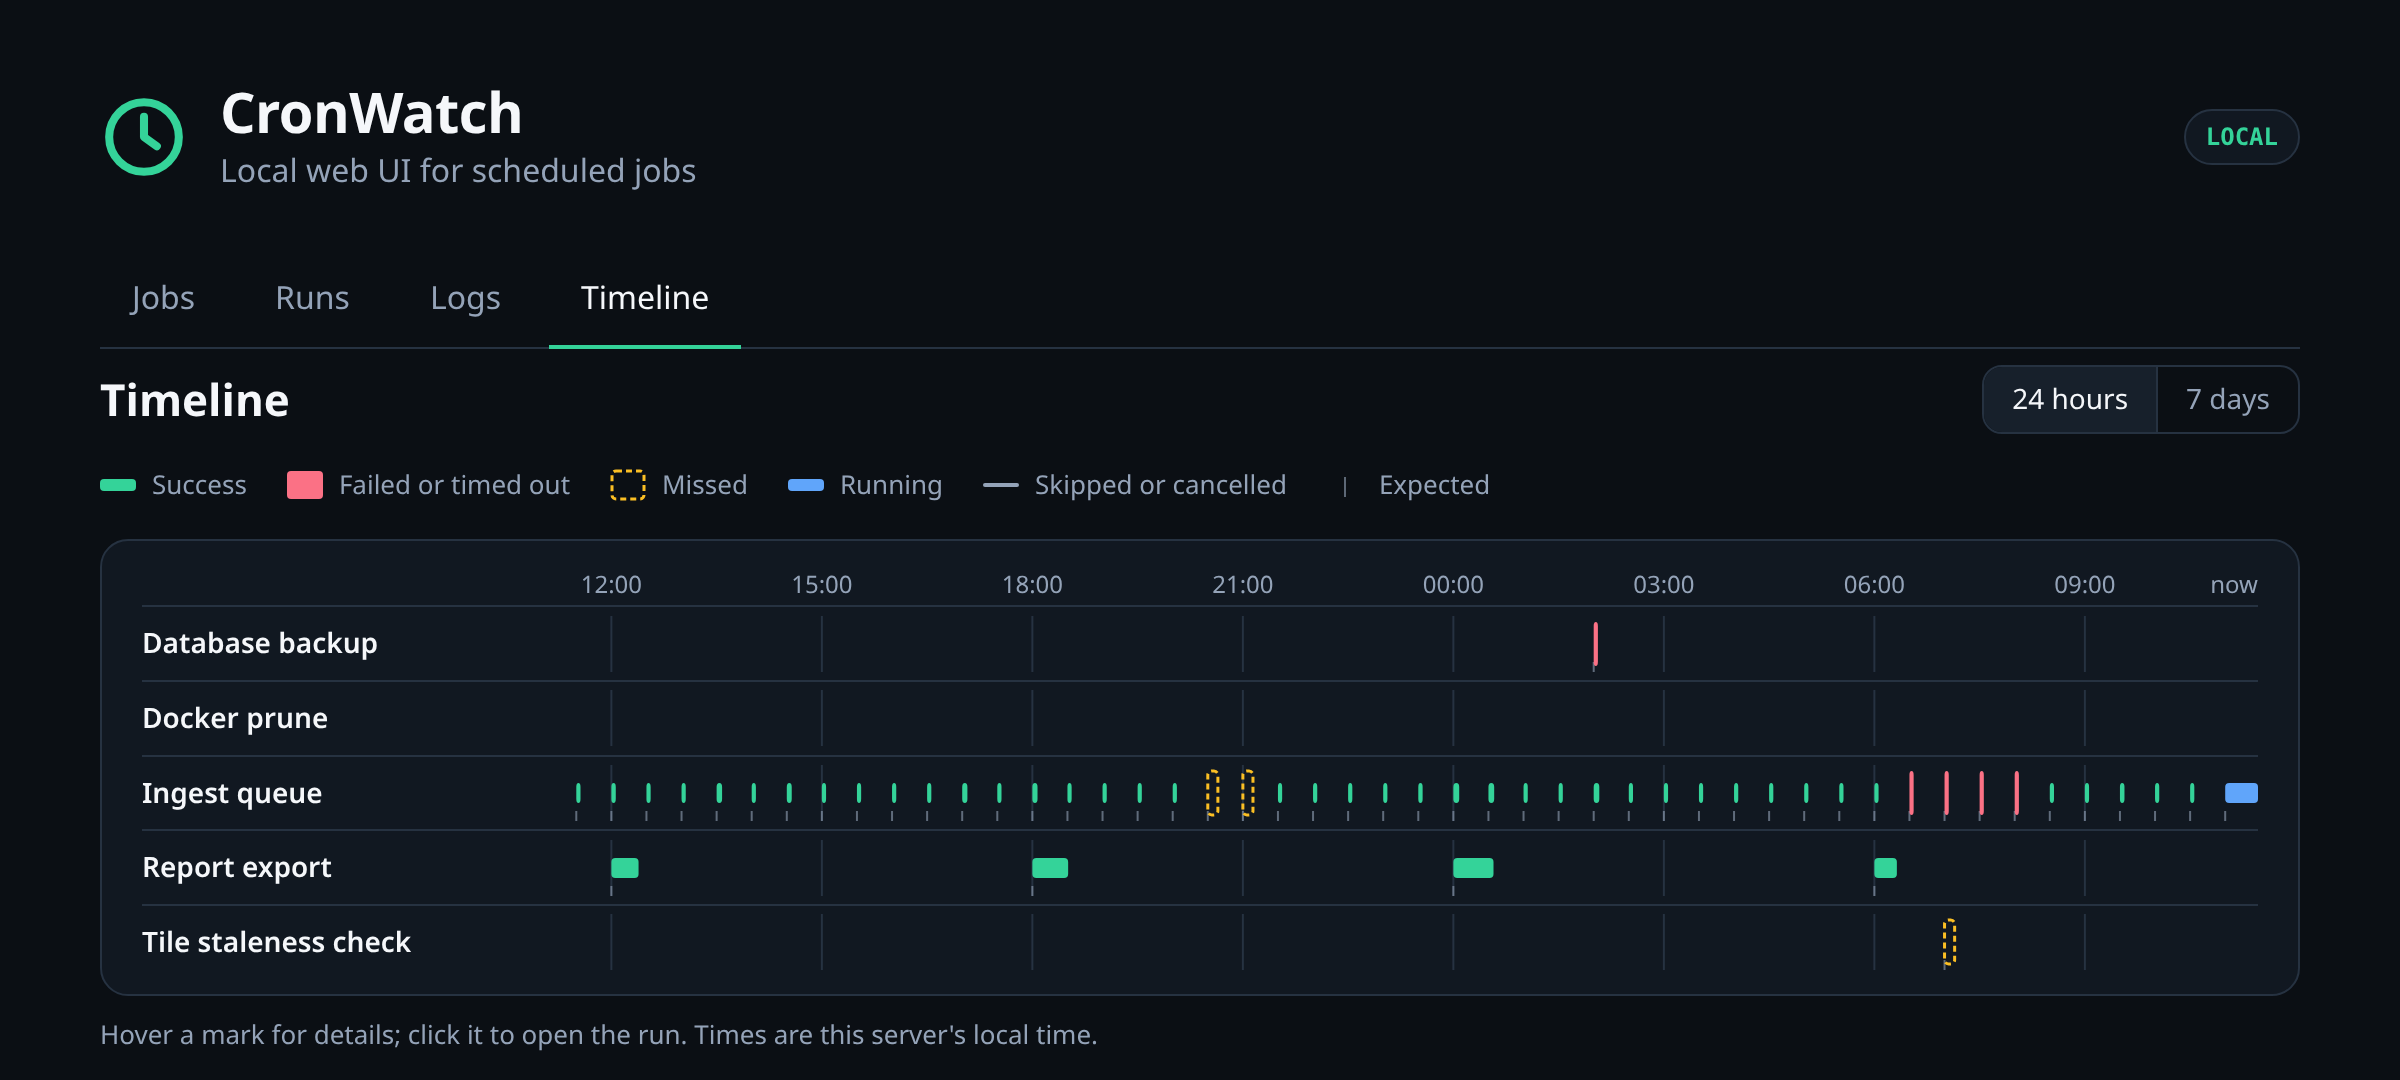
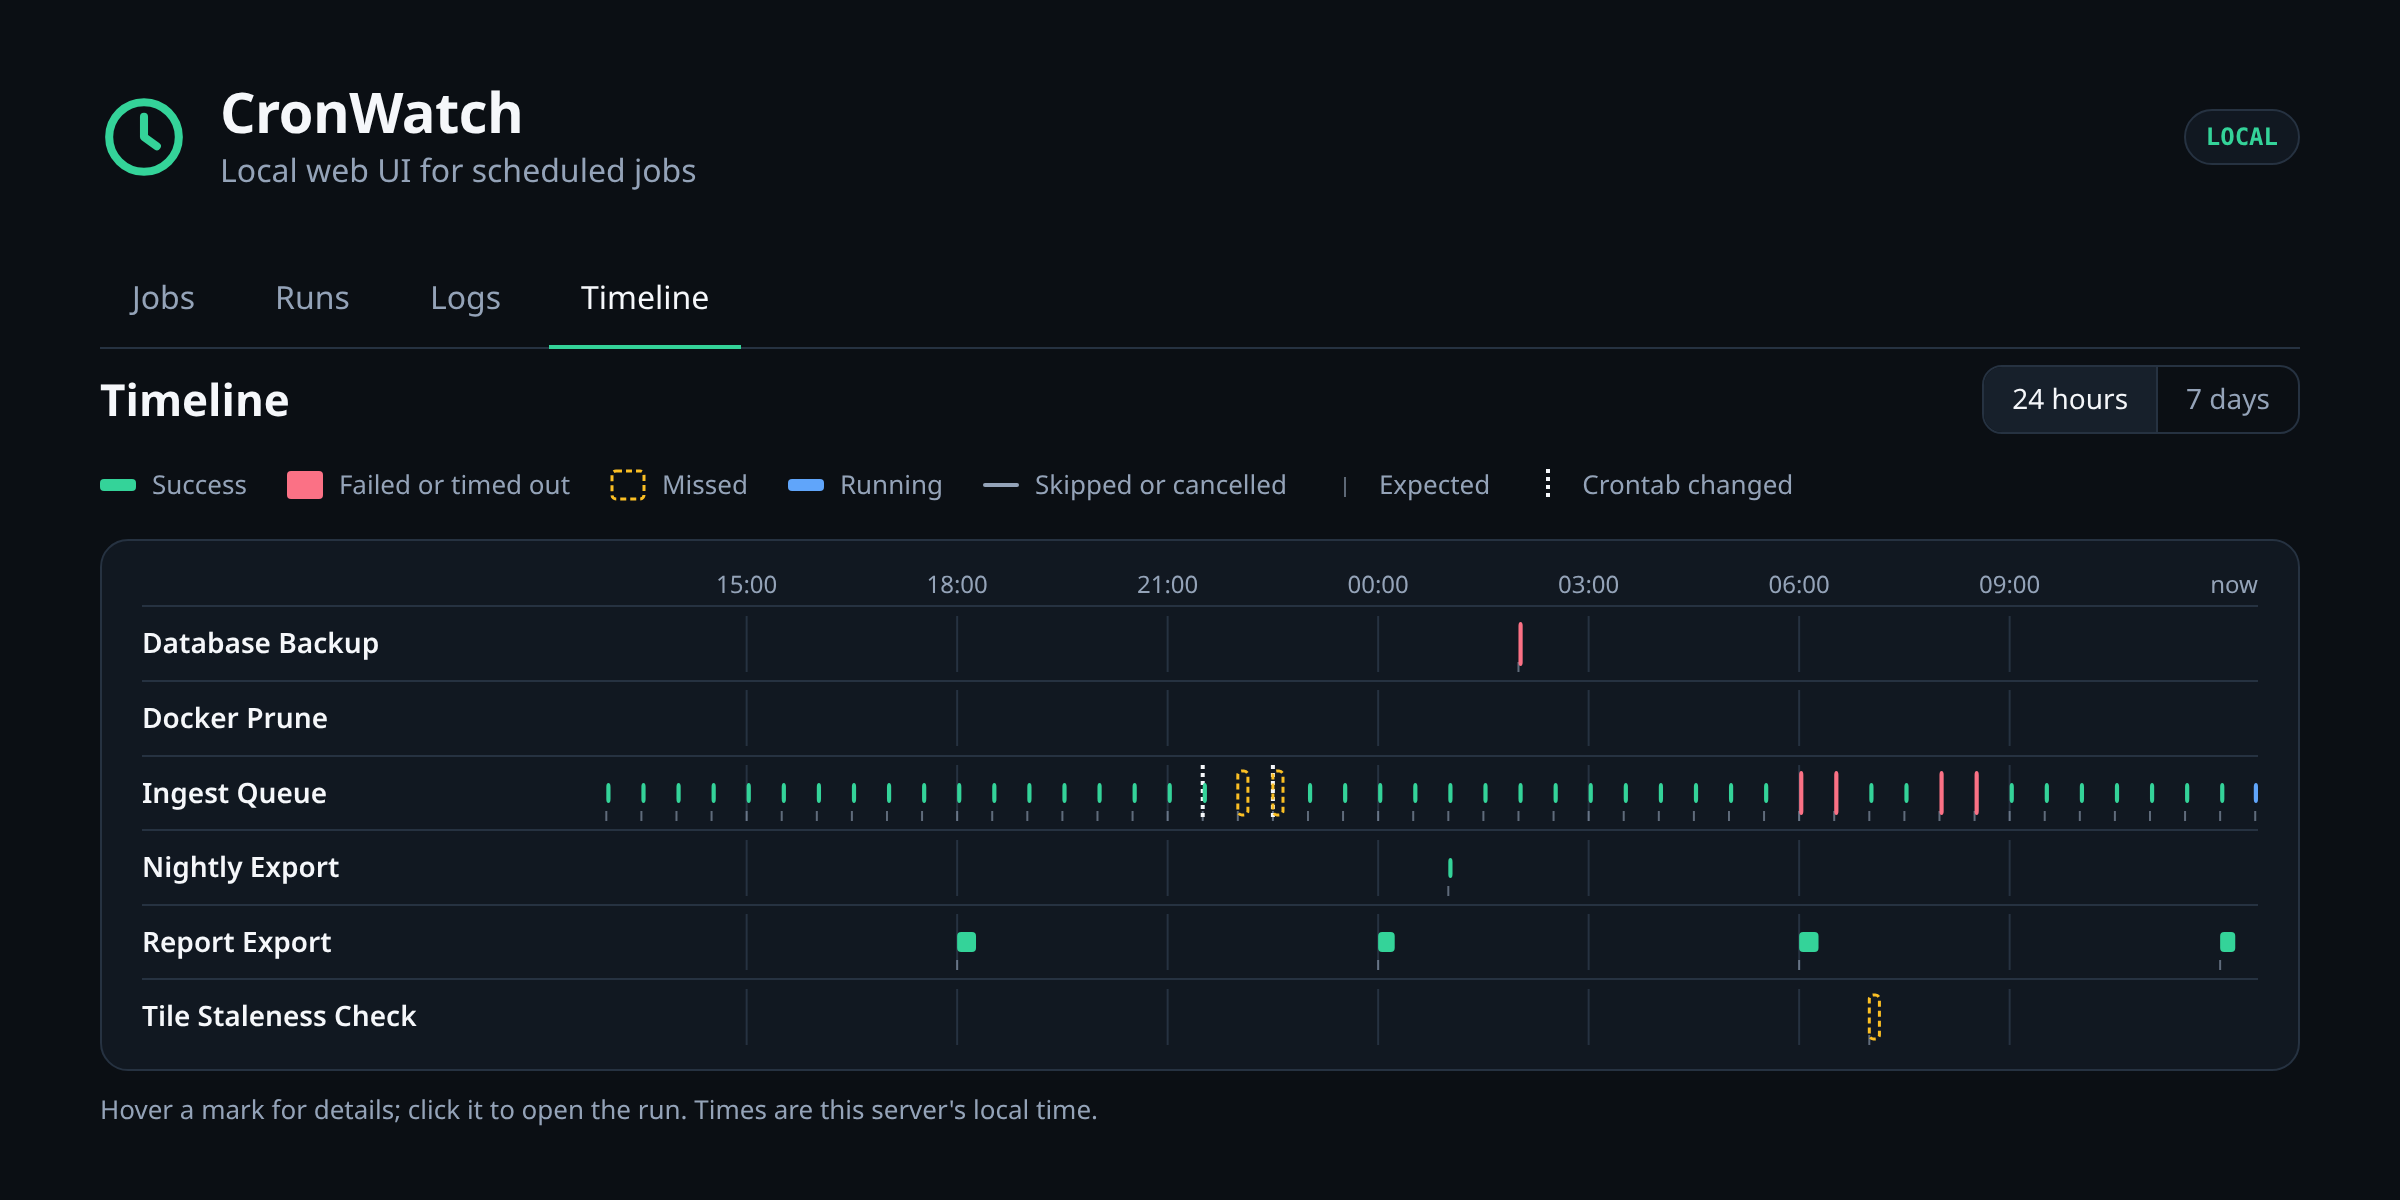
Refresh README screenshots and add a script to regenerate them
- scripts/demo fills a data directory with made-up history through the
  storage package, so signatures, missed runs and trends come from the
  real code.
- scripts/screenshots.sh builds CronWatch, generates the demo data, runs
  serve and captures the pages with headless Chromium into docs/images.
- New screenshots of the jobs list, a failed run with the environment
  notice and comparison view, a job's durations and failure types, and
  the timeline with crontab markers; run-environment-change.png is
  replaced by run-failed.png.

diff --git a/scripts/demo/main.go b/scripts/demo/main.go
@@ -1,0 +1,241 @@
+// Command demo fills a CronWatch data directory with realistic, made-up
+// history for screenshots and demos. It writes through the storage package,
+// so failure signatures, missed runs and the rest come from the real code.
+//
+//	go run ./scripts/demo -data-dir /tmp/cronwatch-demo
+//
+// It prints KEY=VALUE lines naming the runs and jobs worth showing.
+package main
+
+import (
+	"context"
+	"flag"
+	"fmt"
+	"log"
+	"math/rand/v2"
+	"os"
+	"strings"
+	"time"
+
+	"github.com/yeboahd24/cronwatch/internal/model"
+	"github.com/yeboahd24/cronwatch/internal/runenv"
+	"github.com/yeboahd24/cronwatch/internal/storage"
+)
+
+const day = 24 * time.Hour
+
+type demo struct {
+	ctx context.Context
+	s   *storage.Store
+	rng *rand.Rand
+	now time.Time
+}
+
+func main() {
+	dir := flag.String("data-dir", "", "data directory to fill; must not exist yet")
+	flag.Parse()
+	if *dir == "" {
+		log.Fatal("-data-dir is required")
+	}
+	if _, err := os.Stat(*dir); err == nil {
+		log.Fatalf("%s exists; the demo only fills a new directory", *dir)
+	}
+	ctx := context.Background()
+	s, err := storage.Open(ctx, *dir)
+	if err != nil {
+		log.Fatal(err)
+	}
+	defer s.Close()
+	d := &demo{ctx: ctx, s: s, rng: rand.New(rand.NewPCG(4, 2)), now: time.Now().UTC().Truncate(time.Minute)}
+	if err := d.fill(); err != nil {
+		log.Fatal(err)
+	}
+}
+
+// cron and cronWithPgsql are the environments cron gives the jobs before and
+// after someone removes the PATH line from the crontab.
+var (
+	cronWithPgsql = runenv.Env{Dir: "/home/deploy", User: "deploy", UID: "1001",
+		Vars:  map[string]string{"HOME": "/home/deploy", "LOGNAME": "deploy", "PATH": "/usr/local/pgsql/bin:/usr/bin:/bin", "SHELL": "/bin/sh"},
+		Names: []string{"HOME", "LOGNAME", "MAILTO", "PATH", "PGPASSFILE", "SHELL"}}
+	cron = runenv.Env{Dir: "/home/deploy", User: "deploy", UID: "1001",
+		Vars:  map[string]string{"HOME": "/home/deploy", "LOGNAME": "deploy", "PATH": "/usr/bin:/bin", "SHELL": "/bin/sh"},
+		Names: []string{"HOME", "LOGNAME", "MAILTO", "PATH", "SHELL"}}
+)
+
+// run records one finished run.
+type run struct {
+	start          time.Time
+	took           time.Duration
+	status         string
+	code           int
+	stdout, stderr string
+	reason         string
+	env            runenv.Env
+	overlaps       string
+}
+
+func (d *demo) job(slug, name, schedule string, created time.Time) model.Job {
+	grace := 10 * time.Minute
+	j, err := d.s.UpsertJob(d.ctx, storage.JobSpec{Slug: slug, Name: name, Command: `"/home/deploy/bin/` + slug + `.sh"`, Schedule: &schedule, Grace: &grace})
+	if err != nil {
+		log.Fatal(err)
+	}
+	// Jobs are registered as of now; backdate them so their history counts.
+	if _, err := d.s.DB.ExecContext(d.ctx, "UPDATE jobs SET created_at = ?, missed_checked_until = NULL WHERE id = ?",
+		created.Format("2006-01-02T15:04:05.000000000Z"), j.ID); err != nil {
+		log.Fatal(err)
+	}
+	return j
+}
+
+func (d *demo) record(j model.Job, r run) string {
+	created, err := d.s.CreateRun(d.ctx, j.ID, r.start)
+	if err != nil {
+		log.Fatal(err)
+	}
+	if r.env.Dir == "" {
+		r.env = cronWithPgsql
+	}
+	if err := d.s.SetRunEnv(d.ctx, created.ID, r.env); err != nil {
+		log.Fatal(err)
+	}
+	var combined strings.Builder
+	combined.WriteString(r.stdout)
+	for line := range strings.SplitSeq(strings.TrimSuffix(r.stderr, "\n"), "\n") {
+		if line != "" {
+			combined.WriteString("\x02" + line + "\n")
+		}
+	}
+	code := r.code
+	usage := &model.Usage{MaxRSSKB: int64(30000 + d.rng.IntN(20000)), UserCPUMS: r.took.Milliseconds() / 3, SysCPUMS: r.took.Milliseconds() / 40}
+	if err := d.s.CompleteRun(d.ctx, created.ID, storage.Completion{Ended: r.start.Add(r.took), Duration: r.took, Status: r.status,
+		ExitCode: &code, Stdout: r.stdout, Stderr: r.stderr, Combined: combined.String(), Reason: r.reason, Usage: usage}); err != nil {
+		log.Fatal(err)
+	}
+	if r.overlaps != "" {
+		if err := d.s.SetRunOverlap(d.ctx, created.ID, r.overlaps); err != nil {
+			log.Fatal(err)
+		}
+	}
+	return created.ID
+}
+
+func (d *demo) jitter(base time.Duration, spread float64) time.Duration {
+	return time.Duration(float64(base) * (1 + spread*(d.rng.Float64()*2-1)))
+}
+
+func (d *demo) fill() error {
+	now, today := d.now, d.now.Truncate(day)
+	at := func(daysAgo int, hour, minute int) time.Time {
+		return today.Add(-time.Duration(daysAgo)*day + time.Duration(hour)*time.Hour + time.Duration(minute)*time.Minute)
+	}
+
+	// Database Backup: steady for weeks, then the crontab's PATH line is
+	// removed and tonight's run cannot find pg_dump.
+	backup := d.job("database-backup", "Database Backup", "0 2 * * *", at(41, 0, 0))
+	for i := 40; i >= 1; i-- {
+		stamp := at(i, 2, 0).Format("20060102")
+		d.record(backup, run{start: at(i, 2, 0), took: d.jitter(2*time.Minute+40*time.Second, 0.08), status: "success",
+			stdout: fmt.Sprintf("Starting backup -> db_%s.sql.gz\npg_dump: dumping 42 tables\nDump complete. Size: 1.%dG\nUploaded db_%s.sql.gz to s3://backups/\n", stamp, 6+i%3, stamp)})
+	}
+	failed := d.record(backup, run{start: at(0, 2, 0), took: 1200 * time.Millisecond, status: "failed", code: 127, env: cron,
+		stdout: fmt.Sprintf("Starting backup -> db_%s.sql.gz\n", at(0, 2, 0).Format("20060102")),
+		stderr: "backup.sh: line 12: pg_dump: command not found\n"})
+
+	// Nightly Export: getting slower over the last week, with one very slow
+	// night and an old upstream failure.
+	export := d.job("nightly-export", "Nightly Export", "0 1 * * *", at(41, 0, 0))
+	for i := 40; i >= 0; i-- {
+		r := run{start: at(i, 1, 0), took: d.jitter(2*time.Minute, 0.1), status: "success", stdout: "Exported 18,204 rows to reports/daily.csv\n"}
+		switch {
+		case i == 12:
+			r.took, r.status, r.code, r.stdout, r.stderr = 9*time.Second, "failed", 1, "", "export: upstream API returned 503 Service Unavailable\n"
+		case i == 3:
+			r.took = 14 * time.Minute
+		case i <= 7:
+			r.took = d.jitter(3*time.Minute, 0.08)
+		}
+		d.record(export, r)
+	}
+
+	// Ingest queue: every 30 minutes for three days, two kinds of failure, an
+	// hour when its line was commented out, and a run in progress.
+	ingest := d.job("ingest-queue", "Ingest Queue", "*/30 * * * *", now.Add(-3*day))
+	gapFrom, gapTo := now.Add(-15*time.Hour), now.Add(-14*time.Hour)
+	current := now.Truncate(30 * time.Minute) // the slot whose run is still going
+	for t := now.Add(-3 * day).Truncate(30 * time.Minute).Add(30 * time.Minute); t.Before(current); t = t.Add(30 * time.Minute) {
+		age := now.Sub(t)
+		if !t.Before(gapFrom) && t.Before(gapTo) {
+			continue // commented out
+		}
+		r := run{start: t, took: d.jitter(40*time.Second, 0.6), status: "success", stdout: fmt.Sprintf("Processed %d queued items\n", 20+d.rng.IntN(80))}
+		switch {
+		case age > 6*time.Hour && age < 7*time.Hour+time.Minute:
+			r.status, r.code, r.stderr = "failed", 1, fmt.Sprintf("ERROR: queue lock held by pid %d\n", 4000+d.rng.IntN(900))
+		case age > 4*time.Hour && age < 5*time.Hour+time.Minute:
+			r.status, r.code, r.stderr = "failed", 2, fmt.Sprintf("psql: error: connection to server at 10.0.0.%d port 5432 failed: Connection refused\n", 10+d.rng.IntN(5))
+		}
+		if r.status == "failed" {
+			r.took, r.stdout = 2*time.Second, ""
+		}
+		d.record(ingest, r)
+	}
+	if _, err := d.s.CreateHeartbeatRun(d.ctx, ingest.ID, current); err != nil {
+		return err
+	}
+
+	// Report Export: every 6 hours, once timing out with the next run
+	// skipped by --no-overlap.
+	report := d.job("report-export", "Report Export", "0 */6 * * *", at(15, 0, 0))
+	for t := at(14, 0, 0); t.Before(now); t = t.Add(6 * time.Hour) {
+		if t.Equal(at(1, 6, 0)) {
+			slow := d.record(report, run{start: t, took: time.Hour, status: "timeout", code: 143, reason: "timed out after 1h0m0s (--timeout)",
+				stdout: "Rendering 14 reports\n", stderr: "render: waiting for chart service\n"})
+			d.record(report, run{start: t.Add(20 * time.Minute), status: "skipped", reason: "run " + slow + " was still running (--no-overlap)", overlaps: slow})
+			continue
+		}
+		d.record(report, run{start: t, took: d.jitter(18*time.Minute, 0.3), status: "success", stdout: "Rendering 14 reports\nDone\n"})
+	}
+
+	// Docker Prune: weekly and uneventful.
+	prune := d.job("docker-prune", "Docker Prune", "30 4 * * 0", at(43, 0, 0))
+	for t := at(42, 4, 30); t.Before(now); t = t.Add(day) {
+		if t.Weekday() == time.Sunday {
+			d.record(prune, run{start: t, took: d.jitter(2*time.Second, 0.2), status: "success", stdout: "Total reclaimed space: 1.2GB\n"})
+		}
+	}
+
+	// Tile Staleness Check: daily until two days ago.
+	tiles := d.job("tile-staleness-check", "Tile Staleness Check", "0 7 * * *", at(21, 0, 0))
+	for i := 20; i >= 2; i-- {
+		d.record(tiles, run{start: at(i, 7, 0), took: d.jitter(900*time.Millisecond, 0.1), status: "success", stdout: "Tiles built 3 days ago; OK\n"})
+	}
+
+	// Crontab history: the baseline, the PATH line removed yesterday, and
+	// the ingest line commented out for an hour.
+	path := "PATH=/usr/local/pgsql/bin:/usr/bin:/bin"
+	ingestLine := `*/30 * * * * $CW run --name "Ingest Queue" -- /home/deploy/bin/ingest-queue.sh`
+	for _, snap := range []struct {
+		at      time.Time
+		changes []storage.CrontabChange
+	}{
+		{at(42, 12, 0), nil},
+		{gapFrom.Add(-2 * time.Minute), []storage.CrontabChange{{JobSlug: "ingest-queue", Kind: "removed", Before: ingestLine}}},
+		{gapTo.Add(-2 * time.Minute), []storage.CrontabChange{{JobSlug: "ingest-queue", Kind: "added", After: ingestLine}}},
+		{at(1, 16, 42), []storage.CrontabChange{{Kind: "line_removed", Before: path}}},
+	} {
+		if err := d.s.RecordCrontabSnapshot(d.ctx, storage.CrontabSnapshot{TakenAt: snap.at, Hash: snap.at.String(), Content: "demo"}, snap.changes); err != nil {
+			return err
+		}
+	}
+
+	if _, err := d.s.DetectMissed(d.ctx, now); err != nil {
+		return err
+	}
+	if _, err := d.s.BackfillFailureSignatures(d.ctx, 500); err != nil {
+		return err
+	}
+	fmt.Printf("FAILED_RUN=%s\nEXPORT_JOB=%s\nINGEST_JOB=%s\n", failed, export.ID, ingest.ID)
+	return nil
+}

diff --git a/README.md b/README.md
@@ -107,9 +107,16 @@ A run's page also shows why a run counts as failed when its exit code alone
 does not say (see [Deciding success](#deciding-success)), its peak memory and
 CPU time, and whether it started while an earlier run was still going.
 
-![The Timeline page: one row per job over the last 24 hours. Successful runs are short green bars, failures tall red bars, missed runs dashed yellow boxes, and small ticks mark expected run times.](docs/images/timeline.png)
+![The Jobs page: six jobs with their status, last run, duration and next expected run. Each duration has a small bar chart of recent runs; Nightly Export shows one unusually slow run in yellow. Below, Recent logs shows the failed Database Backup's output ending in "pg_dump: command not found".](docs/images/jobs.png)
 
-![A failed run's page. The last error is "pg_dump: command not found", and a notice lists what changed since the last successful run: PATH is missing /usr/local/pgsql/bin and /usr/local/bin, the shell and working directory differ, and LANG, PGPASSFILE and USER are not set.](docs/images/run-environment-change.png)
+![A failed run of Database Backup. The last error is "pg_dump: command not found", marked as a new error. A notice says the environment changed since the last successful run: PATH is missing /usr/local/pgsql/bin. The "vs last success" view shows the error as the one new line, and three lines from the last success, from the dump to the upload, as missing.](docs/images/run-failed.png)
+
+![The Nightly Export job page. Its duration chart shows runs getting taller over the last week with one tall yellow bar for an unusually slow night, and the note "Getting slower: 3m 6s over the last 7 days, up 50% from 2m 4s over the 30 days before." Below, Failure types lists one error, "export: upstream API returned 503 Service Unavailable".](docs/images/job-durations.png)
+
+![The Timeline page: one row per job over the last 24 hours. Successful runs are short green bars, failures tall red bars, missed runs dashed yellow boxes, and dotted lines mark crontab changes; on the Ingest Queue row, two missed runs sit between the change that commented its line out and the one that restored it.](docs/images/timeline.png)
+
+These screenshots use made-up demo data; `sh scripts/screenshots.sh`
+regenerates them.
 
 ### Cron example
 
@@ -706,6 +713,10 @@ sqlc generate
 Queries live in [`queries/`](queries/), generated Go code in
 [`internal/db/`](internal/db/), and goose migrations in
 [`migrations/`](migrations/). The build embeds migrations and web assets.
+
+`sh scripts/screenshots.sh` regenerates the README screenshots from demo data
+(`go run ./scripts/demo -data-dir DIR` builds that data on its own); it needs
+Chromium or Google Chrome.
 
 `sh scripts/release.sh VERSION` builds Linux and macOS archives plus checksums
 and copies the publishable installer. See
